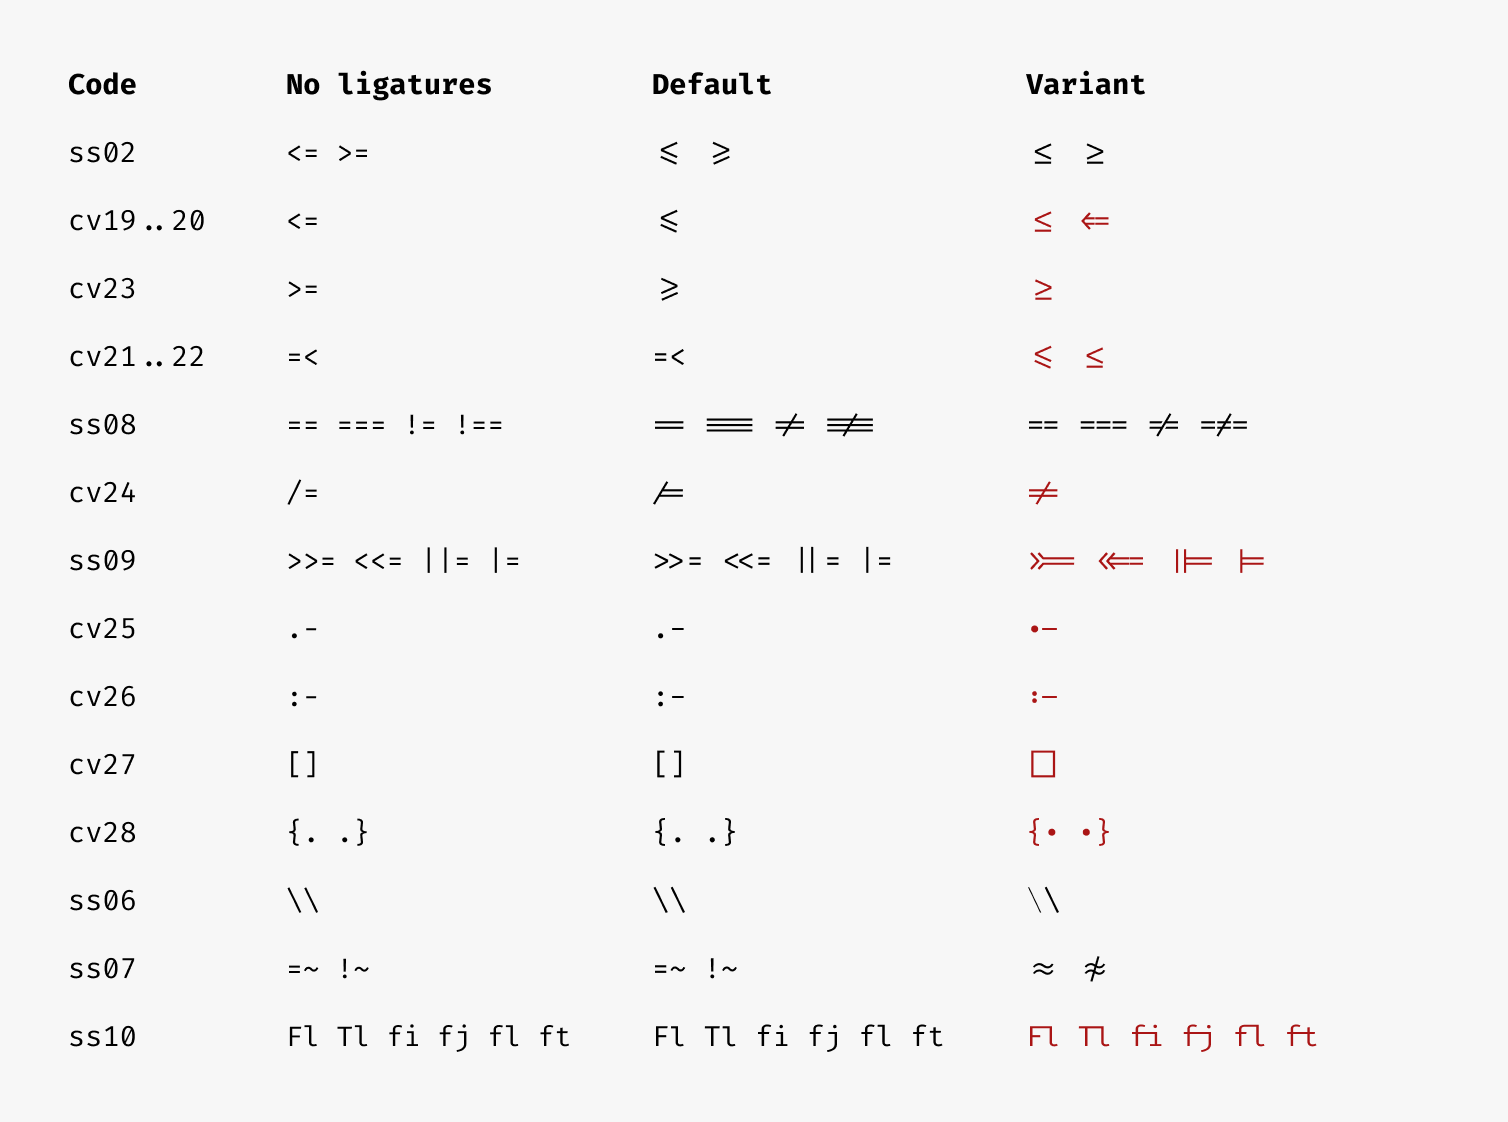
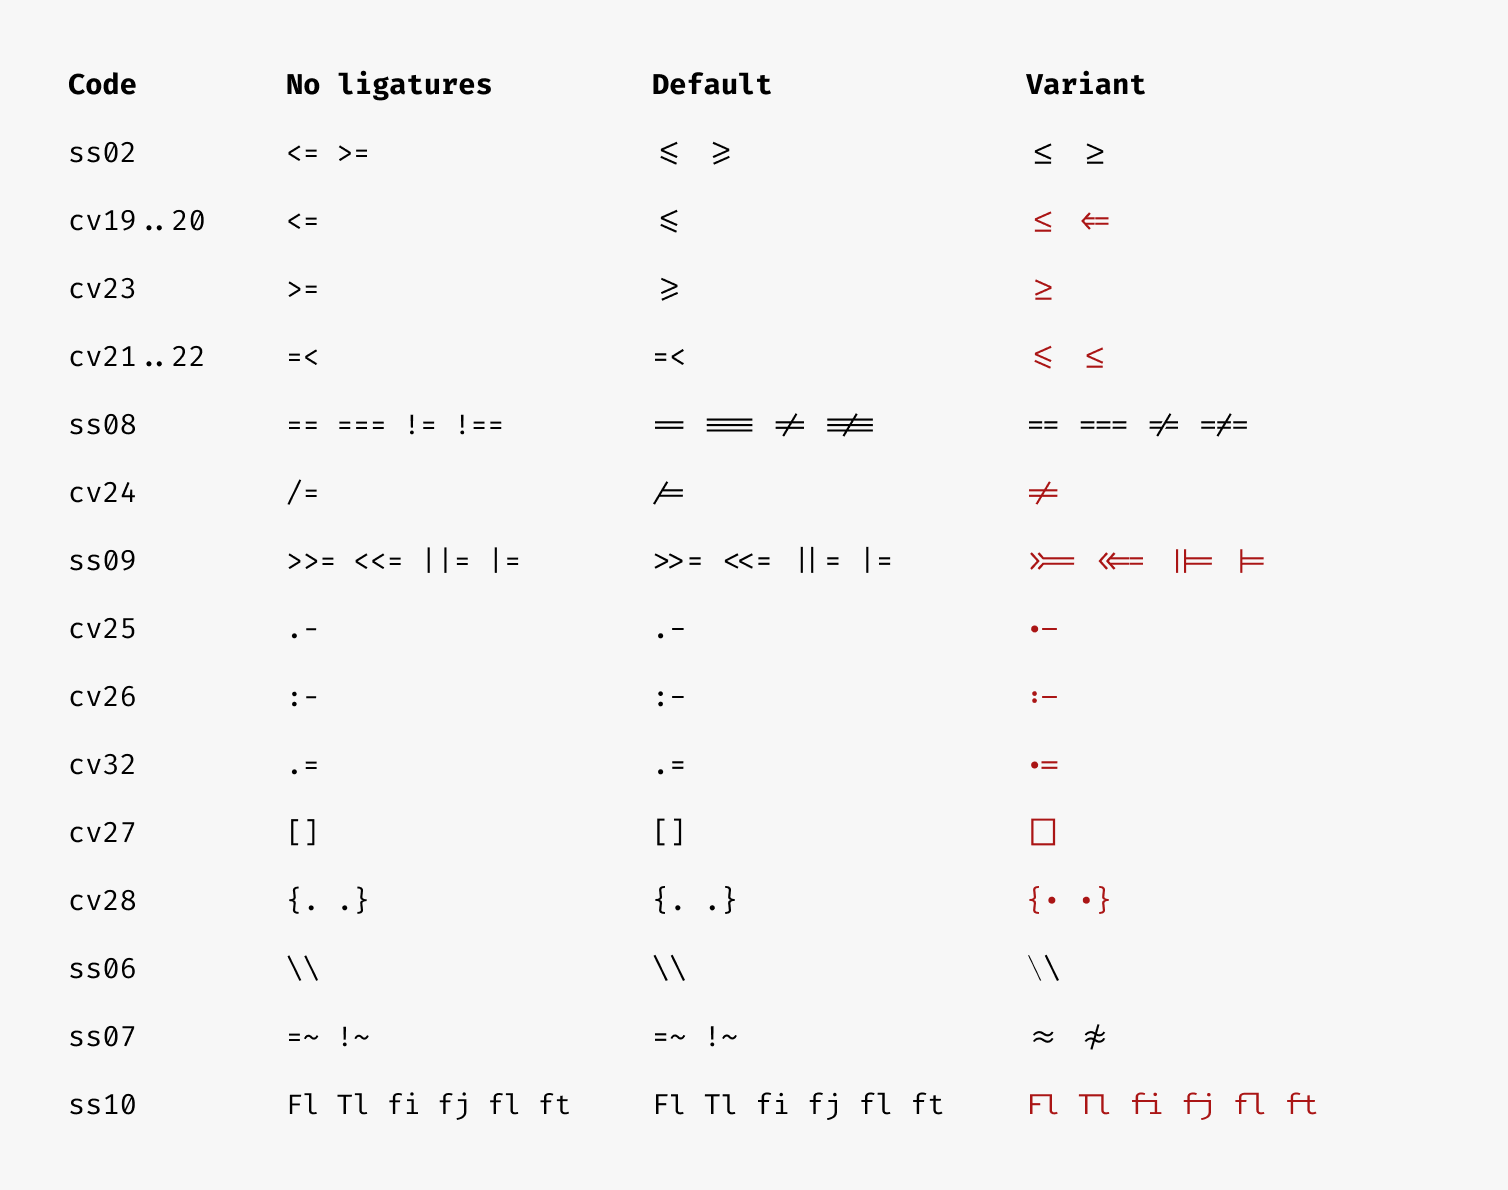
Moved `.=` into `cv32` #670

diff --git a/CHANGELOG.md b/CHANGELOG.md
@@ -25,7 +25,8 @@ Removed:
 
 - C-style compound assignment `>>=` `<<=` `||=` `|=` are not combined with equal sign by default. Old behavior is moved into `ss09` #974
 - Restored short `|` by default, long one moved to `cv30` #843 #1160
-- Moved `.-` into `cv25` #860 #1103
+- Moved `.-` into `cv25` #670 #860 #1103
+- Moved `.=` into `cv32` #670
 
 Added (variants):
 
